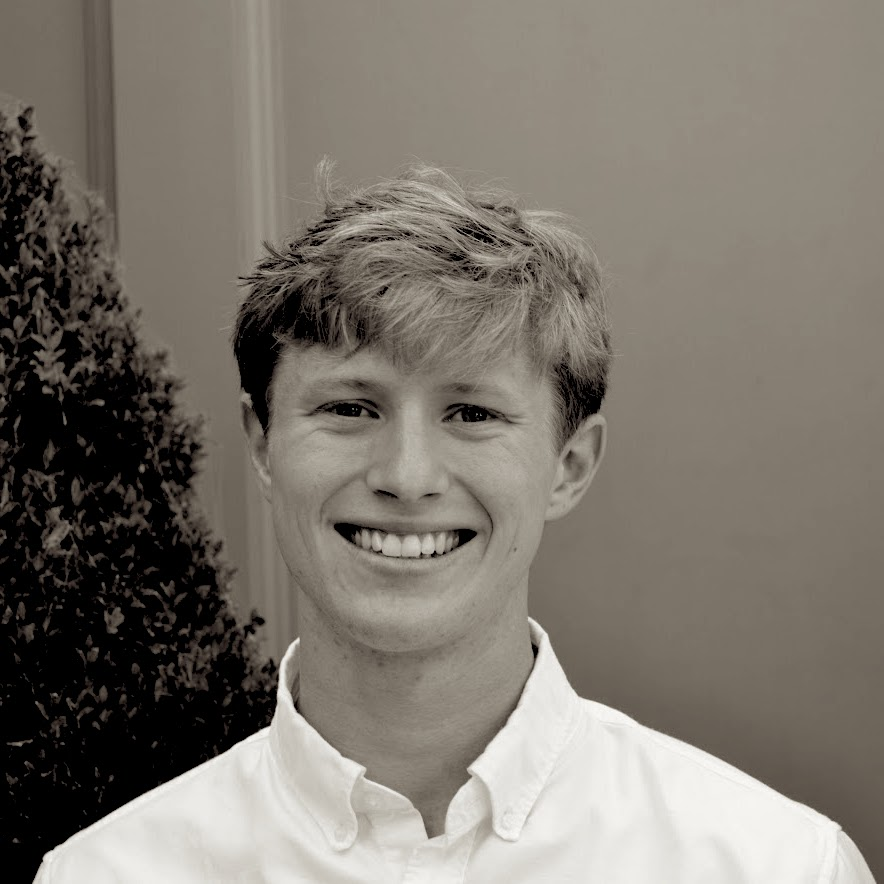
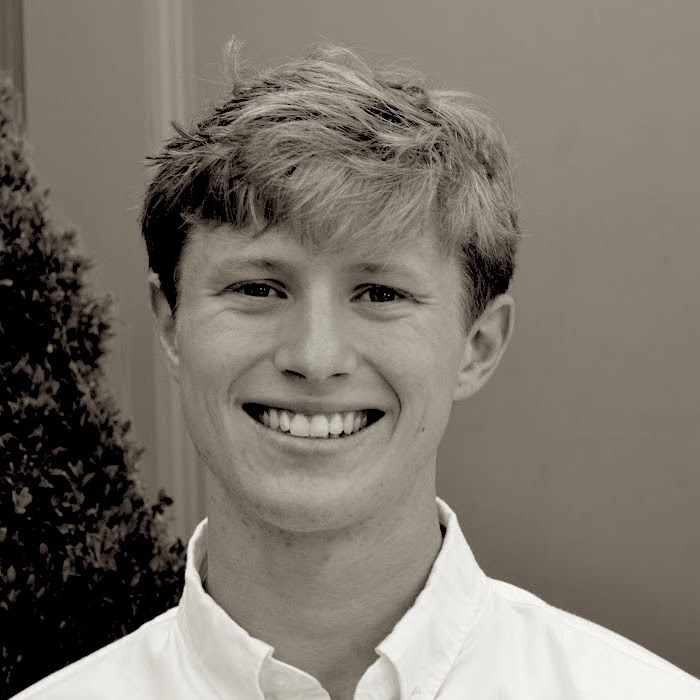
update greeting

diff --git a/index.html b/index.html
@@ -1,92 +1,77 @@
 <!DOCTYPE html>
 <html lang="en">
 
-    <head>
-        <title>Elliot Britton - developer</title>
-        <link rel="stylesheet" href="style/desktopStyle.css">
-        <link rel="stylesheet" media="(max-width: 600px)" href="style/mobileStyle.css">
-        <link rel="preconnect" href="https://fonts.googleapis.com">
-        <link rel="preconnect" href="https://fonts.gstatic.com" crossorigin>
-        <link href="https://fonts.googleapis.com/css2?family=Lato:wght@100;300;400;700;900&display=swap" rel="stylesheet">
-    </head>
+<head>
+    <title>Elliot Britton - developer</title>
+    <link rel="stylesheet" href="style/desktopStyle.css">
+    <link rel="stylesheet" media="(max-width: 600px)" href="style/mobileStyle.css">
+    <link rel="preconnect" href="https://fonts.googleapis.com">
+    <link rel="preconnect" href="https://fonts.gstatic.com" crossorigin>
+    <link href="https://fonts.googleapis.com/css2?family=Lato:wght@100;300;400;700;900&display=swap" rel="stylesheet">
+</head>
 
-    <body>
+<body>
 
-        <div class="desktop-navBar">
-            <div class="container">
-                <div class="column">
-                    <div class="name">Elliot Britton</div>
-                    <div class="occupation">Developer</div>
-                </div>
-                <div class="column">
-                    <div class="navRight">
-                        <div class="name">&nbsp;</div>
-                        <div class="navbar">
-                            <a href="resume.html">Resume</a>&nbsp;&nbsp;|&nbsp;&nbsp;
-                            <a href="resume.html">Projects</a>&nbsp;&nbsp;|&nbsp;&nbsp;
-                            <a href="resume.html">Contacts</a>
-                        </div>
+    <!-- desktop navbar  -->
+    <div class="desktop-navBar">
+        <div class="container">
+            <div class="column">
+                <div class="name">Elliot Britton</div>
+                <div class="occupation">Developer</div>
+            </div>
+            <div class="column">
+                <div class="navRight">
+                    <div class="name">&nbsp;</div>
+                    <div class="navbar">
+                        <a href="resume.html">Resume</a>&nbsp;&nbsp;|&nbsp;&nbsp;
+                        <a href="resume.html">Projects</a>&nbsp;&nbsp;|&nbsp;&nbsp;
+                        <a href="resume.html">Contacts</a>
                     </div>
-              </div>
-        </div>
-
-        <hr>
-
-        <div class="container">
-            <div class="column" style="justify-content: right;">
-                <div class="image-container">
-                    <img src="static/profile2.jpeg" alt="profile picture of me">
                 </div>
             </div>
-            <div class="column">
-                <h1>Hello</h1>
-                <h4><span id="greeting"></span>.</h4>
-                <p>I'm a software engineer.</p>
+        </div>
+    </div>
+
+    <hr>
+
+    <!-- central section -->
+    <div class="container" style="padding-top: 30px; padding-bottom: 30px;">
+        <div class="column">
+            <div class="image-container">
+                <img src="static/profile.jpeg" alt="profile picture of me">
             </div>
         </div>
-
-
-
-
-
-
-        
-        <h2>About Me</h2>
-        <p>Write a short introduction about yourself here.</p>
-        
-        <h2>Resume</h2>
-        <p><a href="link-to-your-resume.pdf">Download Resume</a></p>
-        
-        <h2>GitHub</h2>
-        <p><a href="https://github.com/ebritt07">Visit GitHub</a></p>
-
-        <h2>Linkedin</h2>
-        <p><a href="https://github.com/ebritt07">Visit Linkedin</a></p>
-        
-        <h2>Projects</h2>
-        <ul>
-            <li><a href="project-1.html">Project 1</a></li>
-            <li><a href="project-2.html">Project 2</a></li>
-            <li><a href="project-3.html">Project 3</a></li>
-        </ul>
-
-        <hr>
-
-        <div class="container">
-            <div class="column" style="justify-content: right;">
-                <h2>Resume</h2>
-        <p><a href="link-to-your-resume.pdf">Download Resume</a></p>
-            </div>
-            <div class="column">
-                <h1>Hello</h1>
-                <h4><span id="greeting"></span>.</h4>
-                <p>I'm a software engineer.</p>
-            </div>
+        <div class="column">
+            <h1><span id="greeting"></span></h1>
+            <p>Welcome to my collection of coding projects.</p>
+            <p><b>Select projects:</b></p>
+            <button class="circle-button">bitcoin trader</button>
         </div>
+    </div>
 
+    <hr>
 
-        <script src="greeting.js"></script>
-    
-    
-    </body>
+    <!-- footer -->
+    <div class="footer container">
+        <div class="column">
+            <h3>Resume</h3>
+            <p><a href="link-to-your-resume.pdf" target="_blank">Download Resume</a></p>
+        </div>
+        <div class="column">
+            <h3>Github</h3>
+            <p><a href="https://github.com/ebritt07" target="_blank">Visit Github</a></p>
+        </div>
+        <div class="column">
+            <h3>Linkedin</h3>
+            <p><a href="https://linkedin.com/in/elliotbritton" target="_blank">Visit Linkedin</a></p>
+        </div>
+        <div class="column">
+            <h3>Repo</h3>
+            <p><a href="https://linkedin.com/in/elliotbritton" target="_blank">Visit this site's Github repository</a></p>
+        </div>
+    </div>
+
+    <script src="greeting.js"></script>
+</body>
+
 </html>

diff --git a/style/desktopStyle.css b/style/desktopStyle.css
@@ -1,6 +1,10 @@
 /* Styles for desktop screens */
 
 
+
+
+
+
 body {
   font-family: 'Lato', sans-serif;
   background-color: rgb(231, 238, 242);
@@ -12,7 +16,9 @@ body {
 }
 
 h1 {
-  font-size: 72px;
+  font-size: 62px;
+  margin-bottom: 0px;
+  margin-top: 40px;
 }
 
 .column {
@@ -39,8 +45,8 @@ h1 {
 
 .image-container {
   float: right;
-  width: 300px;
-  height: 300px;
+  width: 400px;
+  height: 400px;
   border-radius: 50%;
   overflow: hidden;
 }
@@ -48,4 +54,27 @@ h1 {
 .image-container img {
   height: 100%;
   object-fit: cover;
+}
+
+.footer p {
+  font-size: 12px;
+}
+
+.circle-button {
+  display: flex;
+  justify-content: center;
+  align-items: center;
+  width: 140px;
+  height: 140px;
+  border-radius: 50%;
+  border: 1px solid black;
+  background-color: #337ab7;
+  font-size: 22px;
+  font-weight: 700;
+  transition:  background-color 0.3s;
+
+}
+
+.circle-button:hover {
+  background-color: rgb(231, 238, 242);
 }

diff --git a/greeting.js b/greeting.js
@@ -6,7 +6,7 @@ function getGreeting() {
     let greeting;
     
     if (hour >= 0 && hour < 12) {
-      greeting = "Top of the morning";
+      greeting = "Good morning";
     } else if (hour >= 12 && hour < 17) {
       greeting = "Good afternoon";
     } else {
